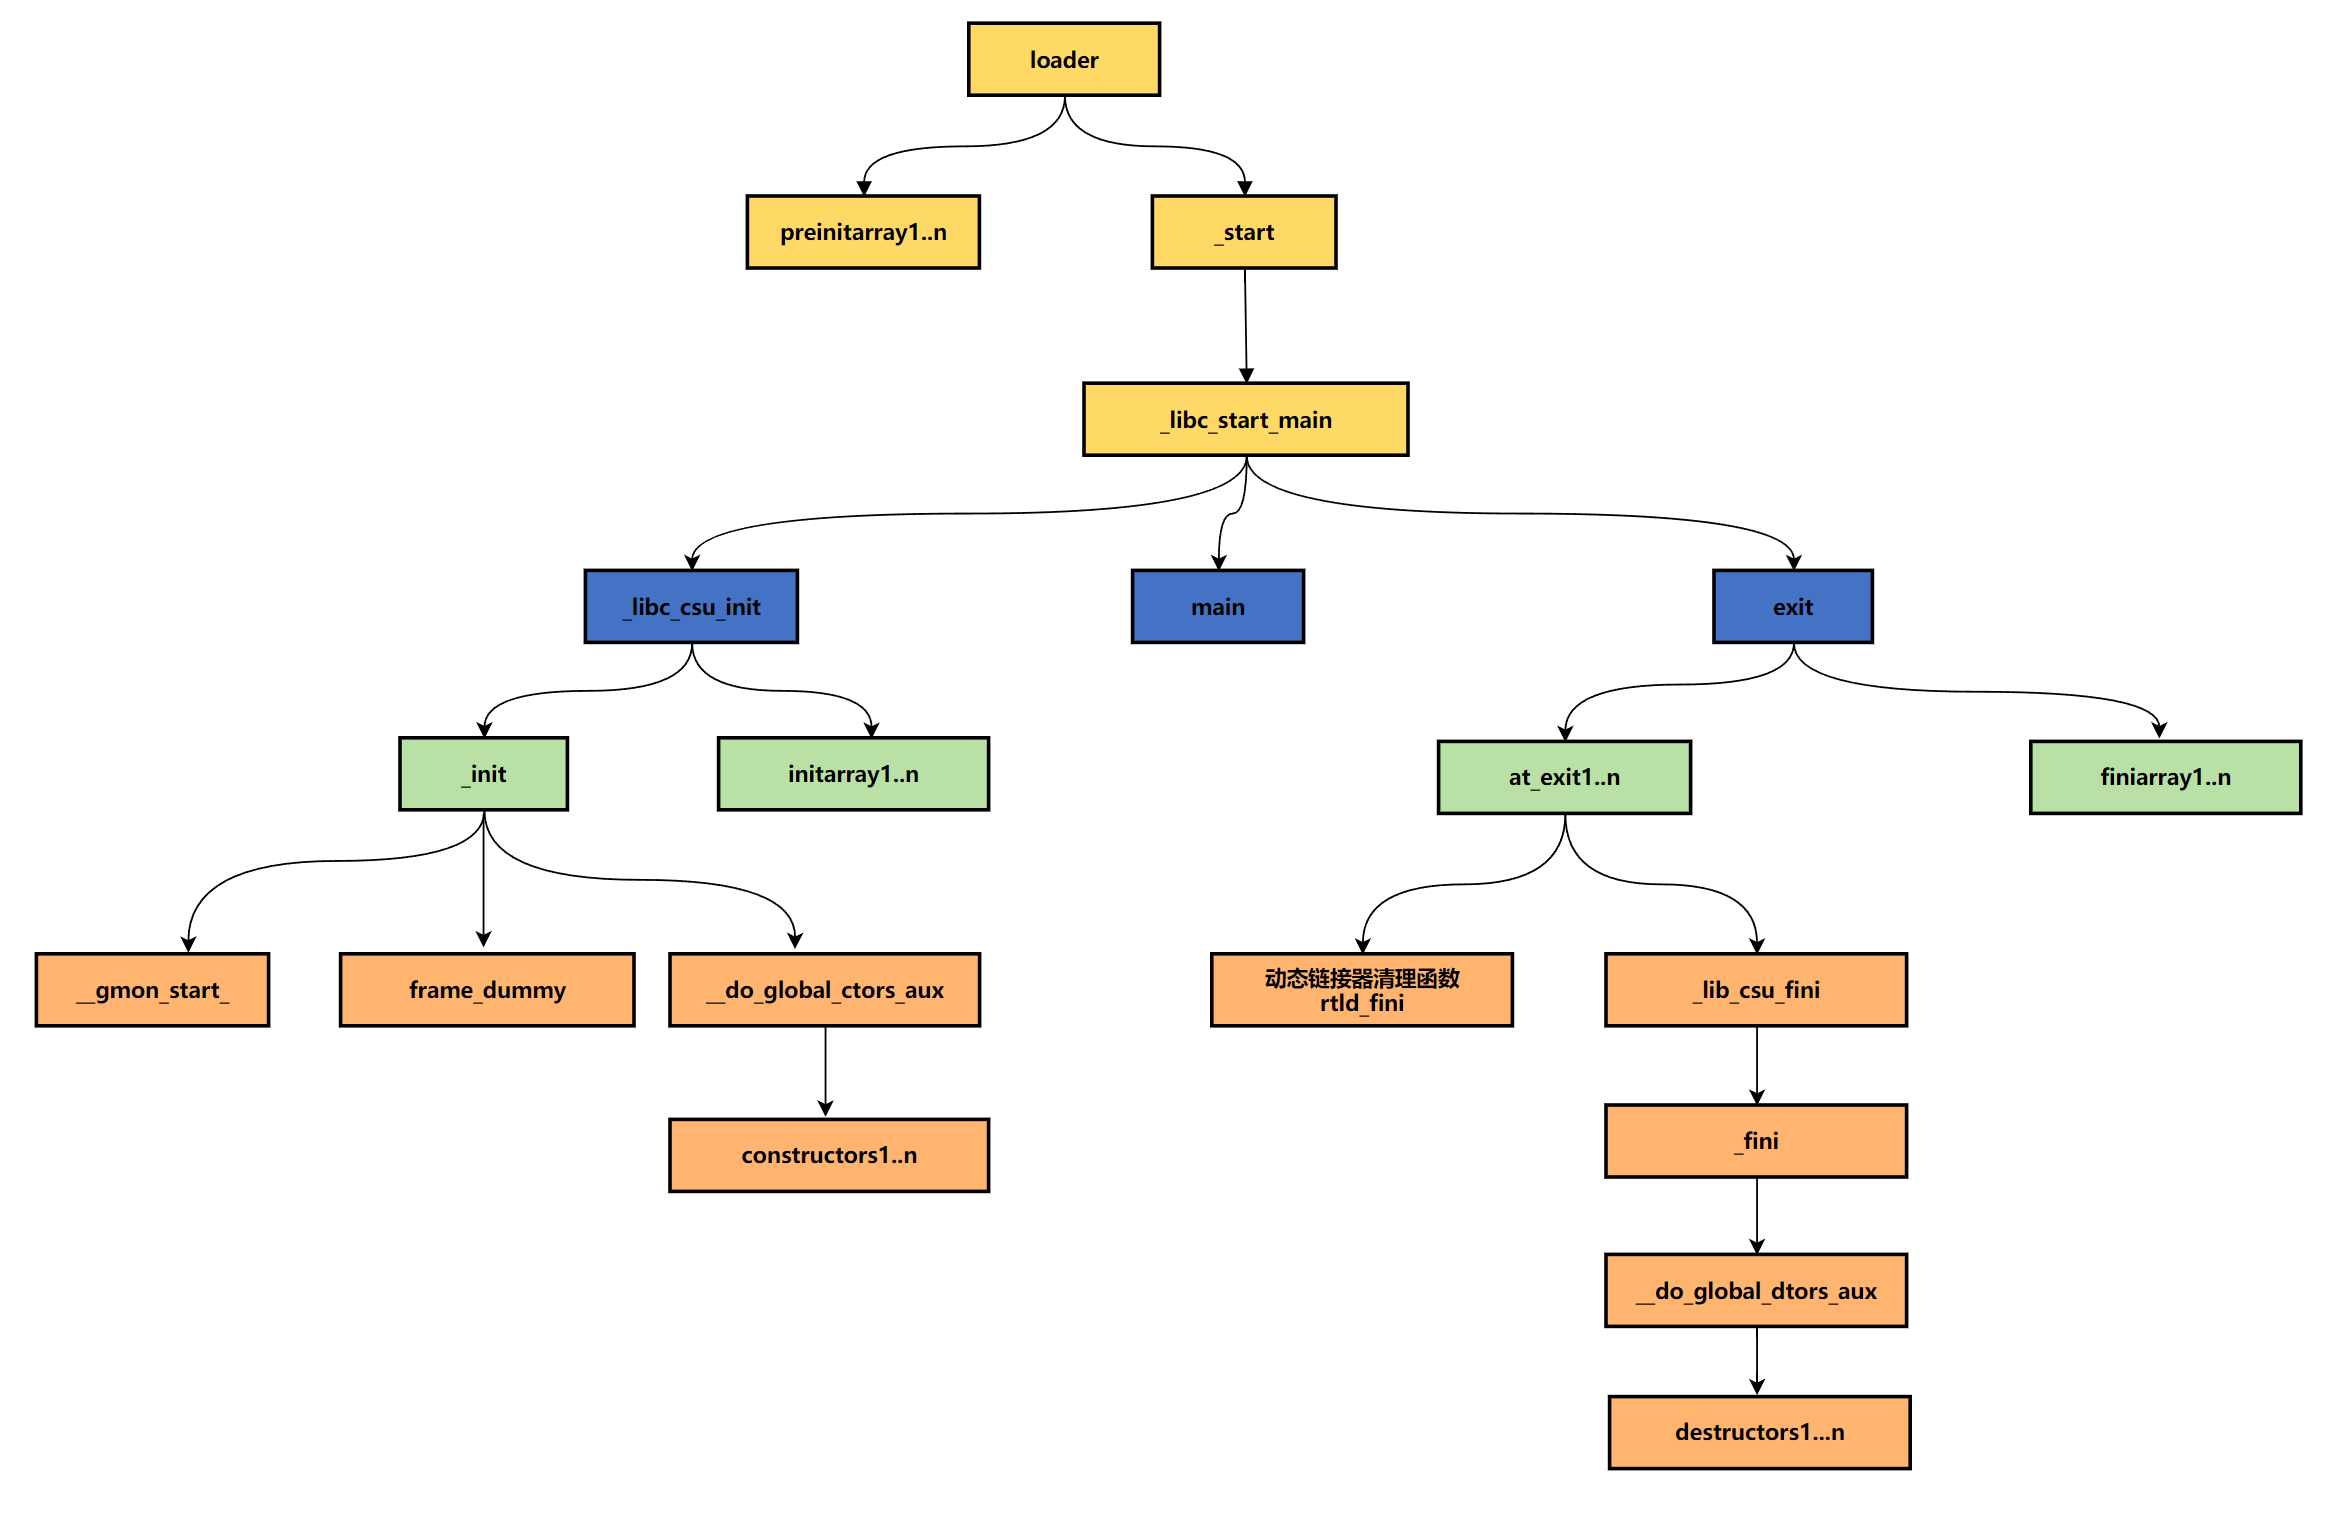
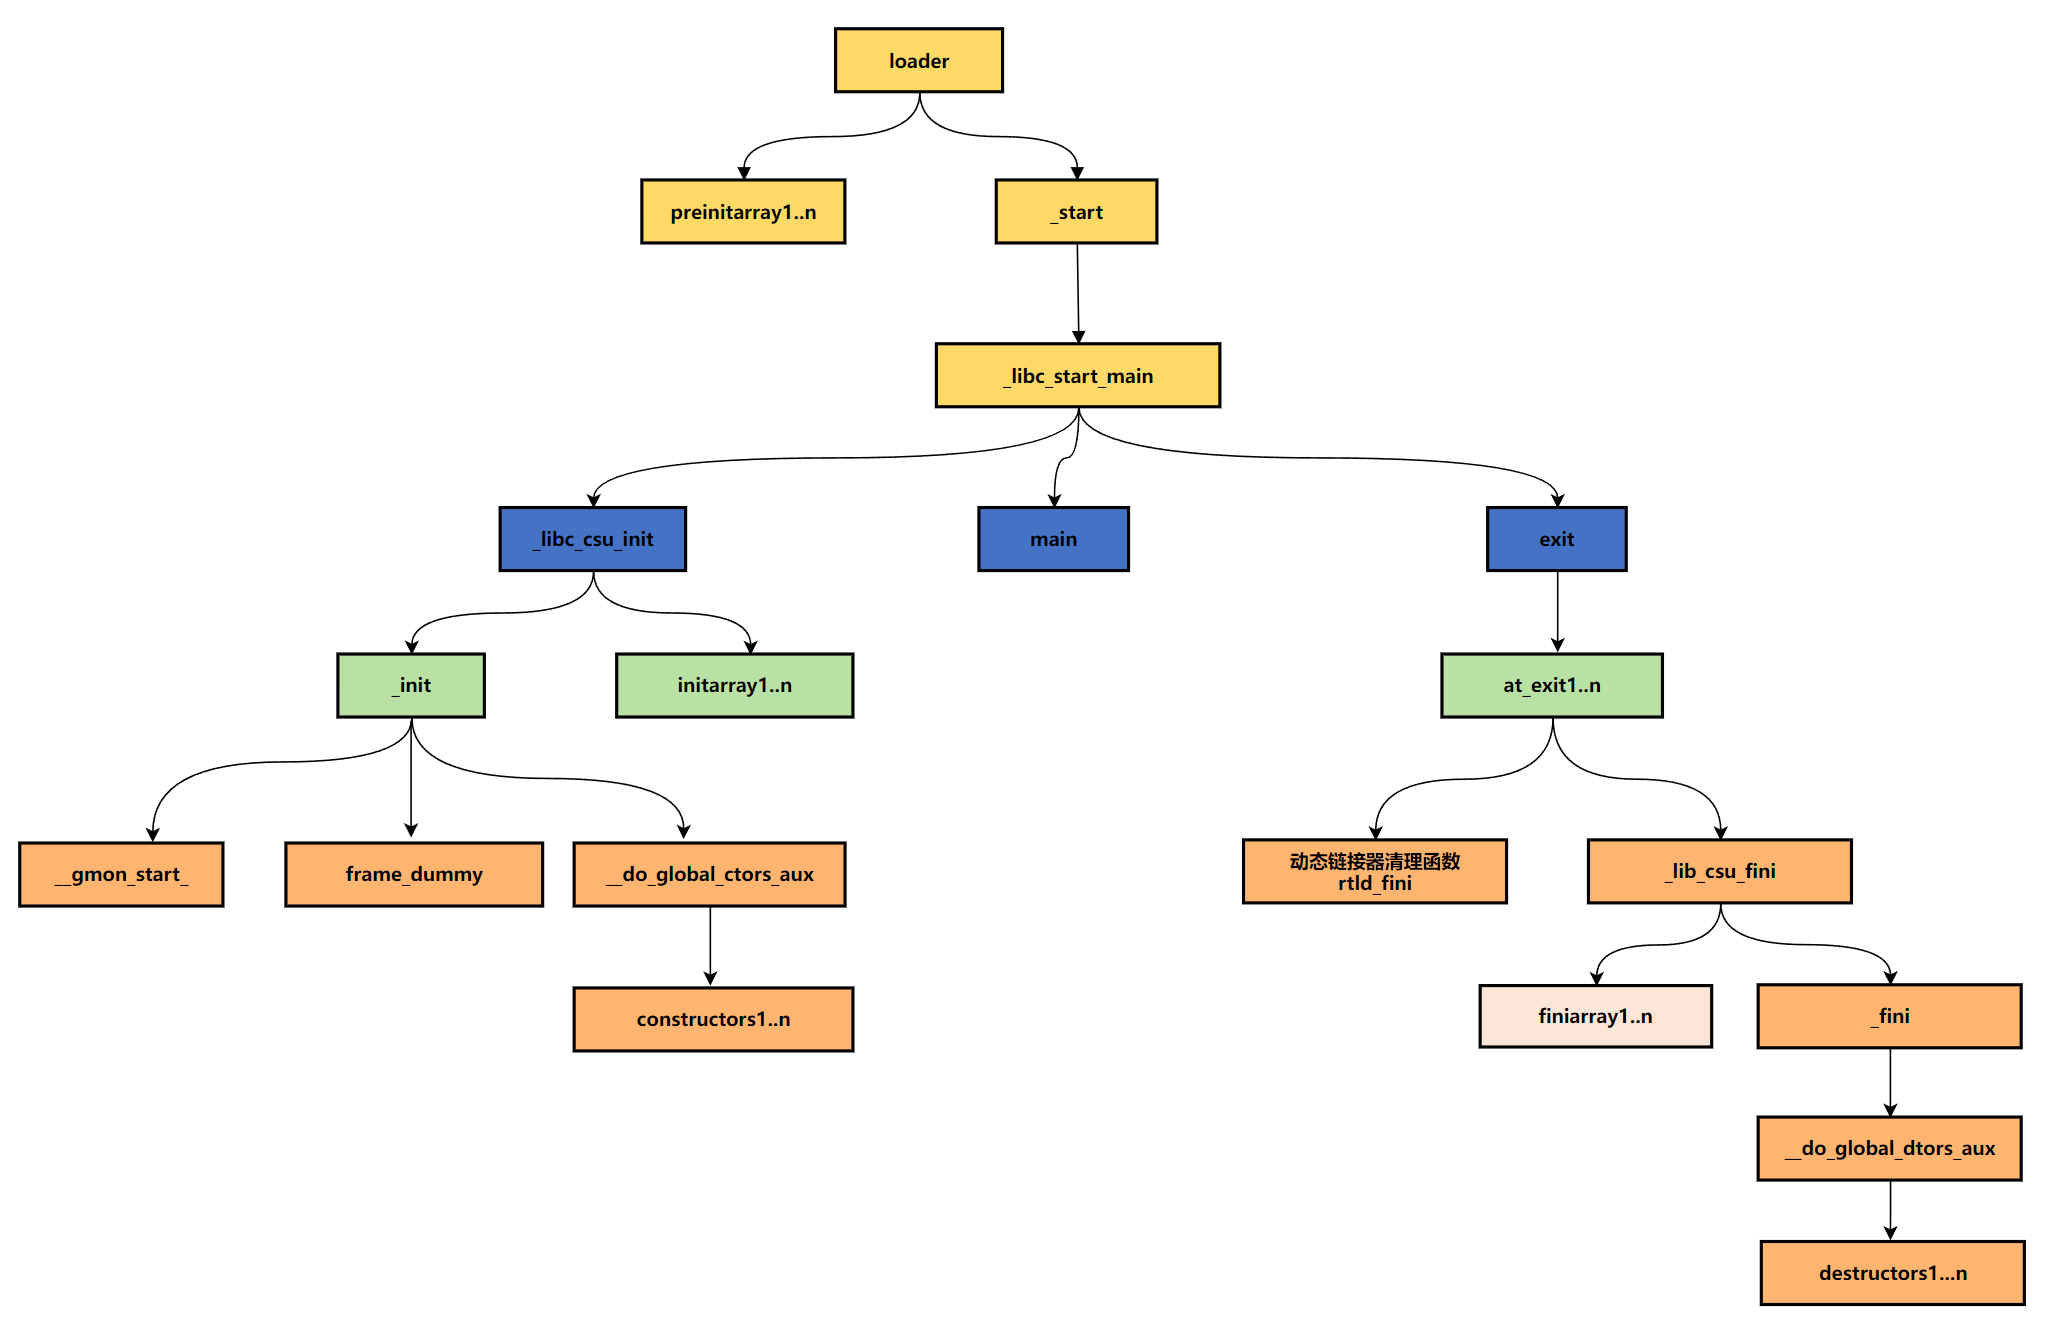
加载程序

diff --git a/链接_装载与库/可执行文件的装载之三.md b/链接_装载与库/可执行文件的装载之三.md
@@ -339,7 +339,7 @@ add $_GLOBAL_OFFSET_TABLE_,%ebx
 
 这个全局偏移表（GOT）里存放着一系列指向我们想要访问的数据的指针，**代码本身只需要知道目标数据在表中的固定偏移量即可**。程序加载器（loader）会在运行时为我们填充（或修正）表中的这些真实地址。对于函数调用，也有一个类似的表（即过程链接表，PLT）。用汇编语言手写这种代码会非常繁琐，但你完全可以只编写 C 或 C++ 代码，然后给编译器传递一个 **`-pic`** 参数，它就会魔术般地自动帮你处理好这一切。因此，当你在反汇编代码中看到这样的指令序列时，就意味着其源代码在编译时使用了 **`-pic`** 标志。
 
-## 6.调用 _init 函数
+### 5.1 调用 **`_init`** 函数
 
 好的，我们来梳理一下目前的调用流程：加载器（loader）将控制权移交给了 **`_start`** 函数，**`_start`** 接着调用 **`__libc_start_main`**，后者又调用了 **`__libc_csu_init`**，现在，**`__libc_csu_init`** 即将调用 **`_init`** 函数。
 
@@ -366,7 +366,7 @@ add $_GLOBAL_OFFSET_TABLE_,%ebx
 
 在上面代码中，第一个 call 指令非常有趣。它的目的与我们之前看到的那个 **`get_pc_thunk`** 调用非常相似。如果你仔细观察，就会发现这个 call 指令的目标，竟然就是紧随其后的下一条指令的地址。**<font color="red">这样做虽然能让程序继续顺序执行，就好像什么都没发生一样，但它带来了一个关键的"副作用"，下一条指令的地址（也就是返回地址）被压入到了栈中</font>**。紧接着，这个地址被从栈中弹出到 **`%ebx`** 寄存器，并被用来为访问全局偏移表（Global Offset Table）进行设置。
 
-### 6.1 调用 **`__gmon_start__@plt`**
+#### 5.1.1 调用 **`__gmon_start__@plt`**
 
 接下来，程序会获取 **`__gmon_start__`** 函数的地址。如果这个地址为零（即一个空指针），那么程序就不会调用该函数，而是直接跳转到后续指令，跳过函数调用。反之，如果地址有效（非零），程序就会调用 **`__gmon_start__`** 函数来启动性能分析（profiling）。
 
@@ -374,11 +374,82 @@ add $_GLOBAL_OFFSET_TABLE_,%ebx
 
 **`__gmon_start__`** 会调用 atexit，把自己准备好的一个"数据转储函数"注册进去，当程序运行结束时，这个被注册的函数就会自动执行，其任务是将性能分析期间收集到的数据写入名为 gmon.out 的文件中。
 
-### 6.2 调用 **`frame_dummy`** 函数
+#### 5.1.2 调用 **`frame_dummy`** 函数
 
 接下来，程序会调用 **`frame_dummy`** 函数。实际上，调用 **`frame_dummy`** 的最终目的是为了调用 **`__register_frame_info`** 函数。**`frame_dummy`** 在此的作用是负责为 **`__register_frame_info`** 函数准备并设置好所需的参数。
 
 这一系列操作的根本目的，是为了注册与异常处理相关的栈帧信息。当程序中出现异常时，操作系统或运行时库需要依据这些预先注册的信息来正确地回溯栈帧，以便清理资源、调用异常处理器等。
 
-### 6.3 调用 **`__do_global_ctors_aux`** 函数
+#### 5.1.3 调用 **`__do_global_ctors_aux`** 函数
 
+最后，程序会调用 **`__do_global_ctors_aux`** 函数。如果你发现程序在 main 函数开始执行之前就崩溃或出现异常行为，那么这个函数内部往往就是你需要重点排查问题的根源所在。我们将 prog1 修改为 prog2，其核心是利用了 **`__attribute__((constructor))`** 这个 GCC 扩展属性。
+
+这个属性的作用就是让被标记的函数在 main 函数之前自动执行。它的实现原理是，编译器会将该函数的指针添加到一个特殊的段 **`.ctors`** 中，程序启动时会调用该段里的所有函数。另外，下面代码中用到的 **`__FUNCTION__`** 是一个预定义的宏，GCC 编译器会在编译期间自动将其替换为当前函数的名称。
+
+```c{.line-numbers}
+#include <stdio.h>
+
+void __attribute__ ((constructor)) a_constructor() {
+    printf("%s\n", __FUNCTION__);
+}
+
+int main() {
+    printf("%s\n",__FUNCTION__);
+}
+```
+
+上述程序的运行结果如下所示：
+
+```c{.line-numbers}
+$ ./prog2
+a_constructor
+main
+$
+```
+
+**`__do_global_ctors_aux`** 函数的源代码如下所示：
+
+```c{.line-numbers}
+__do_global_ctors_aux (void) {
+    func_ptr *p;
+    for (p = __CTOR_END__ - 1; *p != (func_ptr) -1; p--)
+        (*p) ();
+}
+```
+
+在链接时，链接器将每个目标文件的 **`.ctors`** 段合并成一个 **`.ctors`** 段，**<font color="red">因此合并后的 **`.ctors`** 段就成为了一个函数指针数组，每个元素都指向一个目标文件的特殊函数</font>**。链接时，各个目标文件的前后还要链接 **`crtbegin.o`** 和 **`crtend.o`**，这两个目标文件具有的 **`.ctors`** 段也会被合并到可执行文件中。
+
+**`crtbegin.o`** 作为 **`.ctors`** 的开头部分，其 **`.ctors`** 段中存储了一个 4 字节的 0xFFFFFFFF（-1），链接器将这个段的起始地址定义成符号 **`__CTOR_LIST__`**，即 **`__CTOR_LIST__`** 就代表合并后的 **`.ctors`** 的起始地址。**`crtend.o`** 中的内容只有一个 0，定义了一个 **`__CTOR_END__`** 符号，指向 **`.ctors`** 段的末尾。.ctors 的具体结构如下（**`.dtors`** 段结构也是类似）：
+
+```c{.line-numbers}
++--------------------------------+ 
+|              -1                | (__CTOR_LIST__)
++--------------------------------+
+| &constructor_function_1        | (Pointer to the first constructor)
++--------------------------------+
+| &constructor_function_2        |
++--------------------------------+
+|              ...               |
++--------------------------------+
+| &constructor_function_N        | (Pointer to the last constructor)
++--------------------------------+
+|              0                 | (__CTOR_END__)
++--------------------------------+
+```
+
+正如你所看到的，它通过全局变量 **`__CTOR_END__`** 初始化 p，并从中减 1。**<font color="red">不过请记住，这是指针运算，并且该指针指向一个函数，所以在这种情况下，那个-1 操作会使它回退一个函数指针，即 4 个字节</font>**。我们也会在汇编代码中看到这一点。当指针指向的值不为 -1（被转换成一个指针）时，我们就会调用它所指向的函数，然后再次回退指针。显然，这个表的开头是 -1，其后跟着若干个（可能为 0 个）函数指针。
+
+### 5.2 调用 **`init_array`** 
+
+What is this **`__init_array`**? You can have code run at this stage as well. Since this is just after returning from running **`_init`** which ran our constructors, that means anything in this array will run after constructors are done. You can tell the compiler you want a function to run at this phase. The function will receive the same arguments as main.
+
+```c{.line-numbers}
+void init(int argc, char **argv, char **envp) {
+    printf("%s\n", __FUNCTION__);
+}
+__attribute__((section(".init_array"))) typeof(init) *__init = init;
+```
+
+## 6.调用 **`exit()`** 函数
+
+这里调用 **`exit()`** 函数，执行的动作包括：调用退出处理函数、刷新 **`stdio`** 流缓冲区和关闭文件描述符、执行 **`_exit()`** 系统调用。在调用退出处理函数时，就会回调 **`__lib_csu_fini`**，最终调用 **`__do_global_dtors_aux`** 函数，逐个调用析构函数 destructor。
